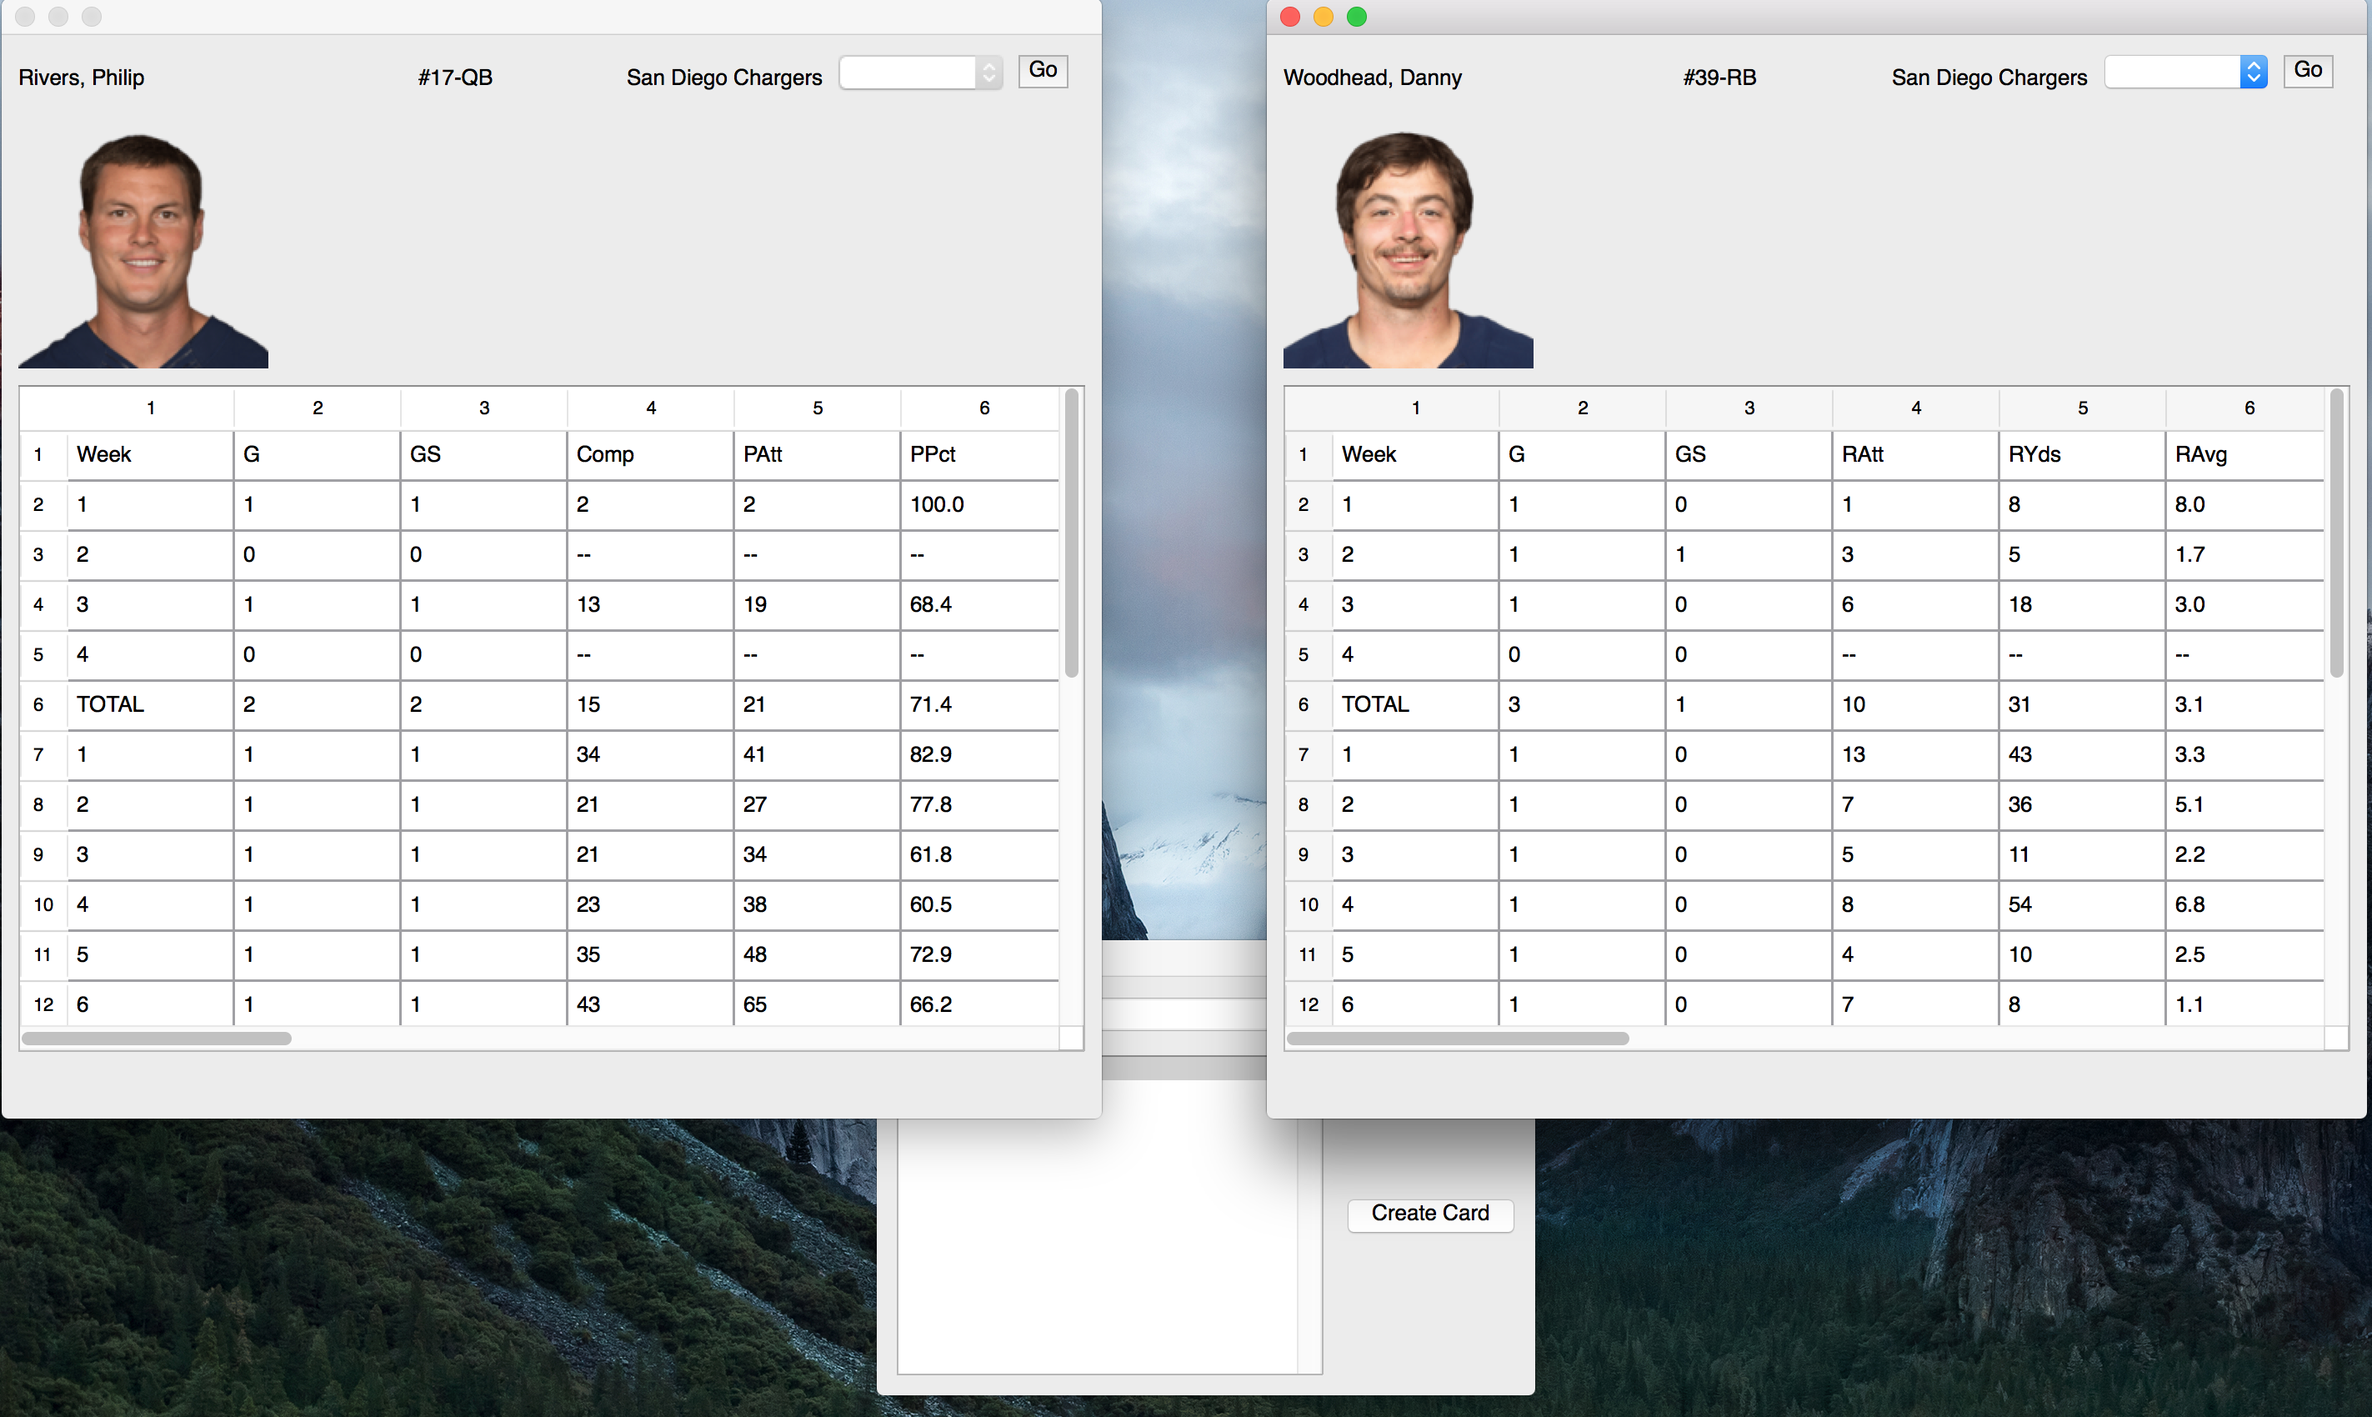
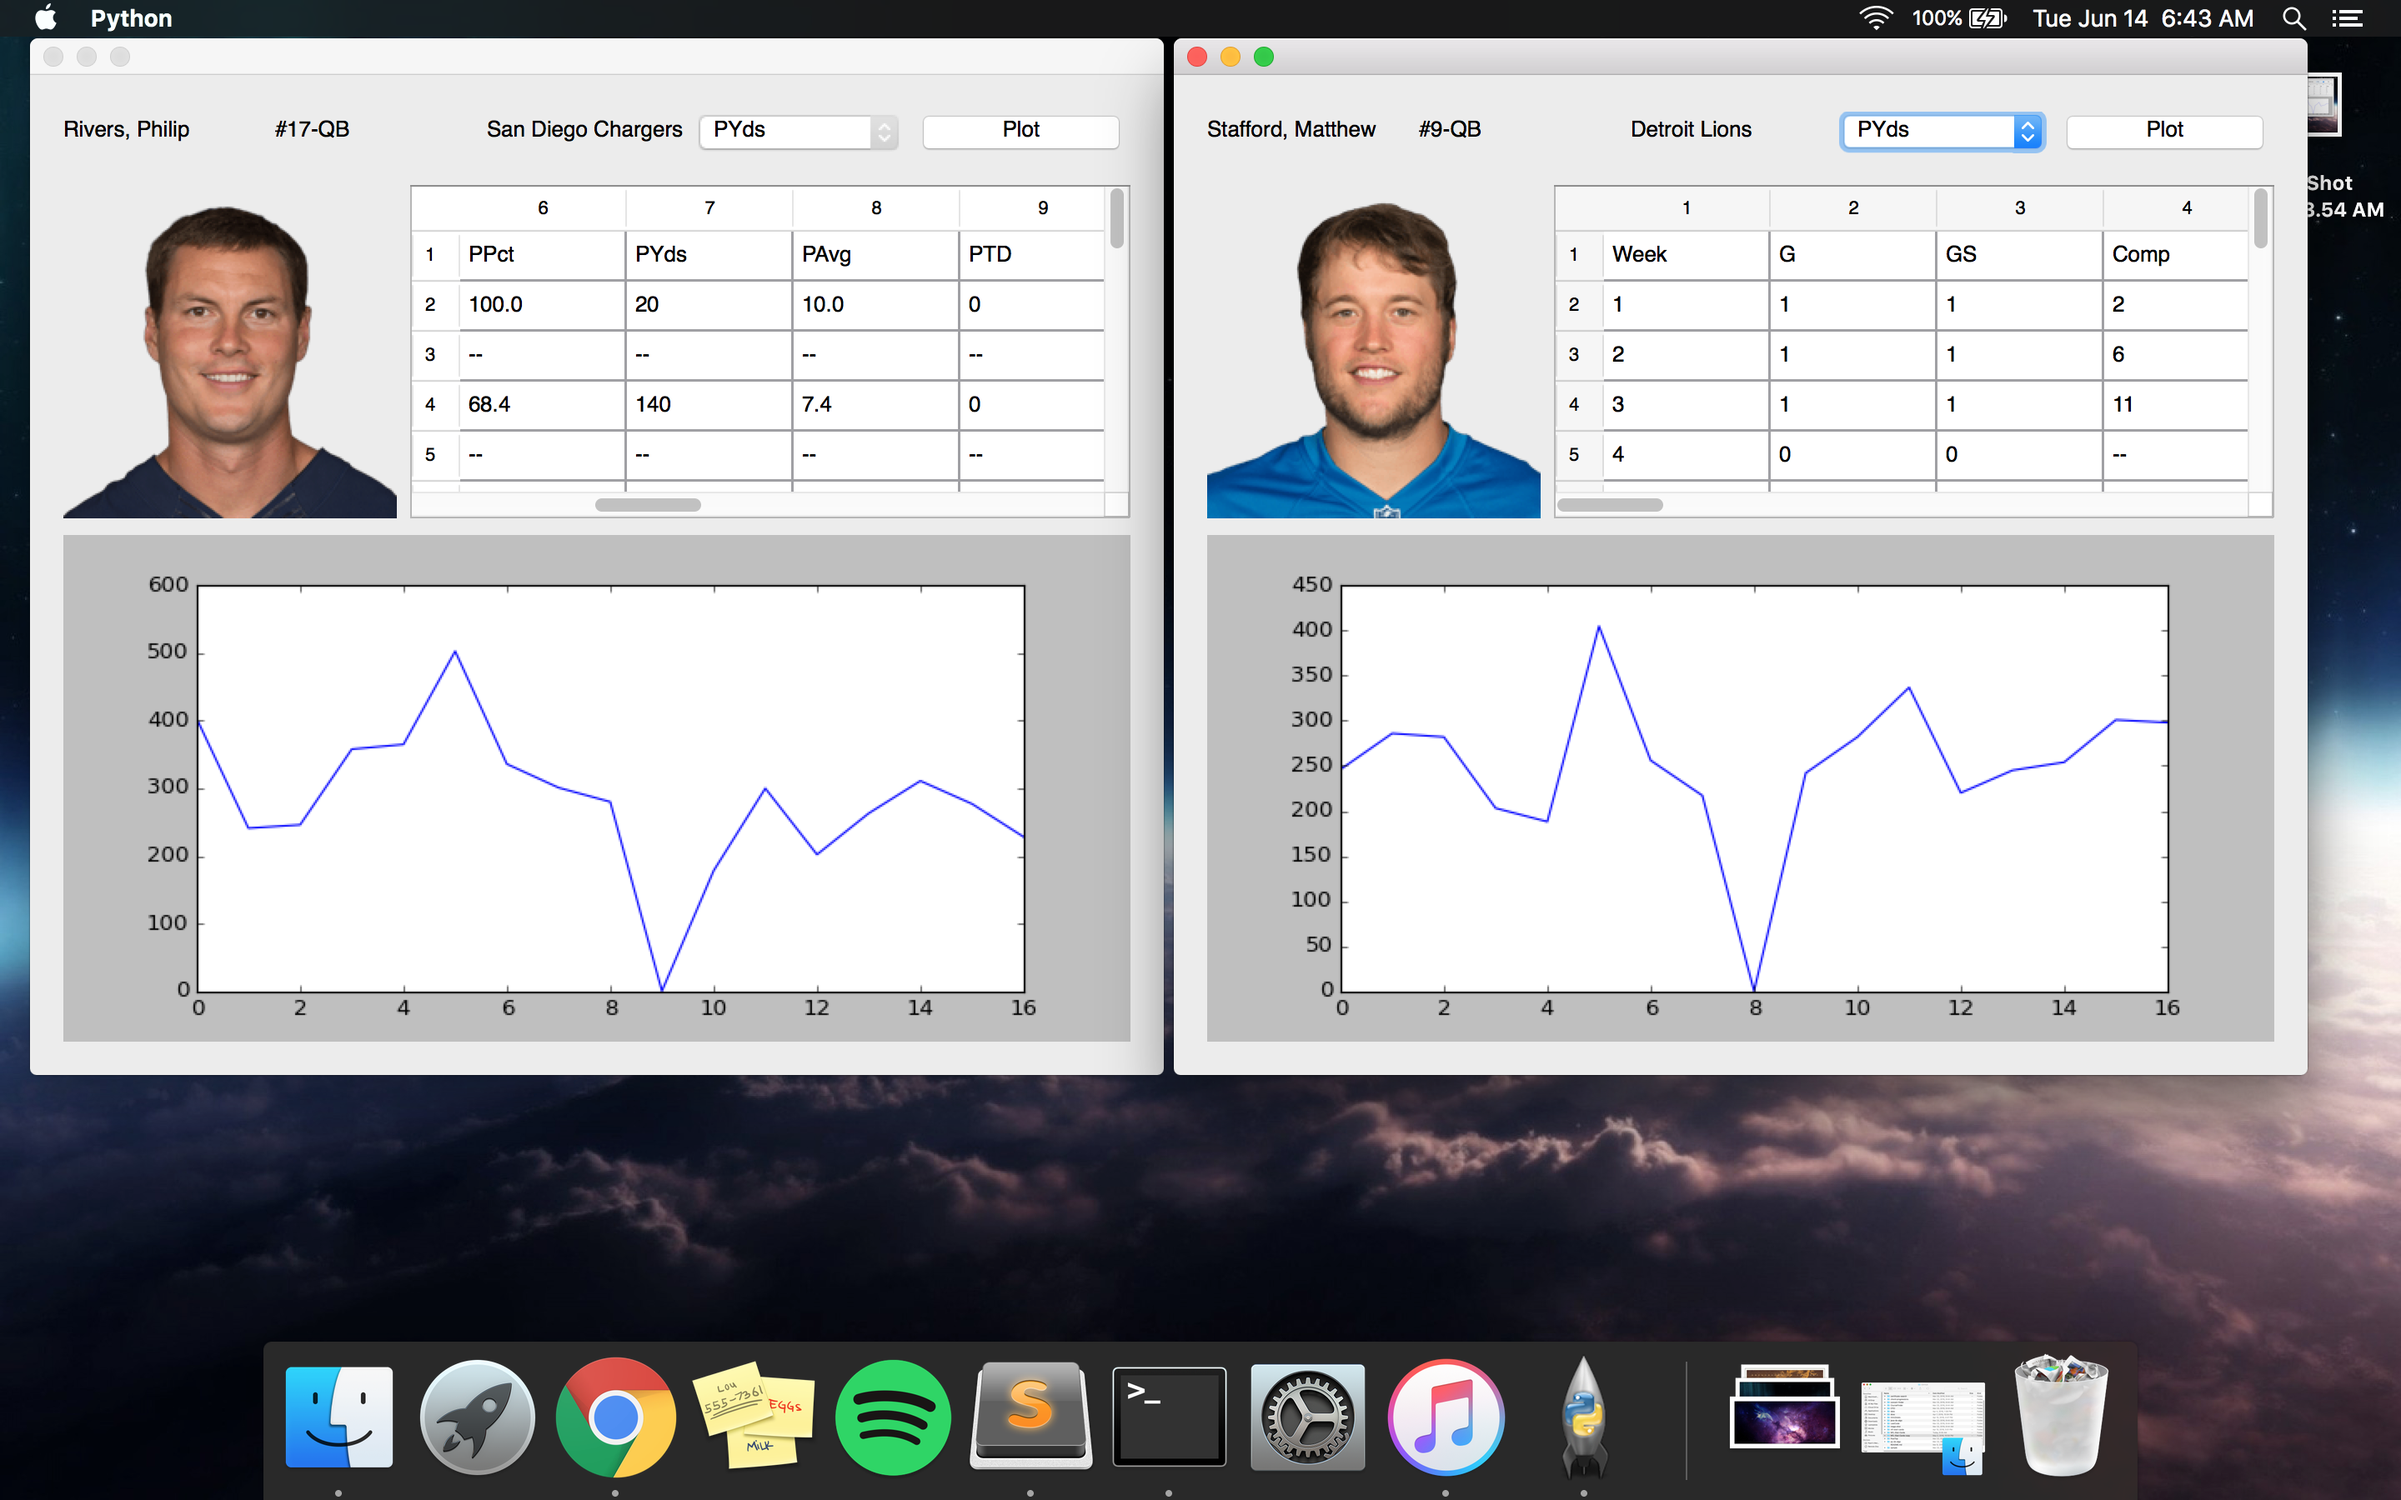
added img

diff --git a/nfl-stat-cards/stat_card.py b/nfl-stat-cards/stat_card.py
@@ -2,8 +2,6 @@ from PyQt4 import *
 from PyQt4.QtCore import * 
 from PyQt4.QtGui import * 
 from parse_data import *
-#from matplotlib.backends.backend_qt4agg import FigureCanvasQTAgg as FigureCanvas
-#from matplotlib.backends.backend_qt4agg import NavigationToolbar2QTAgg as NavigationToolbar
 from matplotlib.figure import Figure
 from matplotlib.backends.backend_qt4agg import (
     FigureCanvasQTAgg as FigureCanvas,
@@ -23,7 +21,6 @@ class StatCard(QWidget):
         self.card.setWindowTitle(current_player[0])
 
         self.stat_table = QTableWidget(self.card)
-        #self.stat_table.setGeometry(QRect(10, 250, 640, 400))
         self.stat_table.setVerticalScrollBarPolicy(Qt.ScrollBarAlwaysOn)
         self.stat_table.setRowCount(len(current_player[5]) + 1)
         self.stat_table.setColumnCount(len(current_player[6]))
@@ -36,30 +33,24 @@ class StatCard(QWidget):
         self.stat_table.setEditTriggers(QAbstractItemView.NoEditTriggers)
 
         self.name = QLabel(self.card)
-        #self.name.setGeometry(QRect(10, 20, 200, 13))
         self.name.setText(current_player[0])
 
         self.num = QLabel(self.card)
-        #self.num.setGeometry(QRect(250, 20, 56, 13))
         self.num.setText(current_player[1] + '-' + current_player[2])
        
         self.team = QLabel(self.card)
-        #self.team.setGeometry(QRect(375, 20, 300, 13))
         self.team.setText(current_player[3])
 
         self.photo = QLabel(self.card)
-        #self.photo.setGeometry(QRect(10, 50, 150, 150))
         self.photo.setScaledContents(True)                  
         self.photo.setPixmap(QPixmap(current_player[4]))
 
         self.categories = QComboBox(self.card)
-        #self.categories.setGeometry(QRect(500, 10, 104, 26))
         self.categories.addItem("")
         for i in range(3, len(current_player[6])):
             self.categories.addItem(current_player[6][i])
 
         self.chart_button = QPushButton(self.card)
-        #self.chart_button.setGeometry(610, 12, 30, 20)
         self.chart_button.setText("Plot")
         self.chart_button.clicked.connect(self.makeChart)
 
@@ -75,47 +66,14 @@ class StatCard(QWidget):
         grid1.addWidget(self.team, 0, 2)
         grid1.addWidget(self.categories, 0, 3)
         grid1.addWidget(self.chart_button, 0, 4)
-        #grid1.setGeometry(QRect(10, 10, 640, 50))
         main_layout.addLayout(grid1)
-
-        #self.photo.setGeometry(QRect(10, 60, 150, 150))
         grid2.addWidget(self.photo, 0, 0)
-        #self.canvas.setGeometry(QRect(160, 60, 640, 150))
         
-        grid2.addWidget(self.canvas, 1, 0, 1, 0)
-        #grid2.setGeometry(QRect(10, 60, 640, 150))
         grid2.addWidget(self.stat_table, 0, 1, 1, 1)
+        grid2.addWidget(self.canvas, 1, 0, 1, 0)
         main_layout.addLayout(grid2)
-        #main_layout.addWidget(self.stat_table)
         
         self.setLayout(main_layout)
-
-
-        #self.canvas.setGeometry(610, 12, 30, 20)
-
-
-
-
-        # self.toolbar = NavigationToolbar(self.canvas, self)
-        # self.canvas.setGeometry(QRect(300, 50, 150, 150))
-
-
-        # self.chart = plt.figure()
-        # self.chart_widget = FigureCanvas(self.chart)
-        # self.chart_widget.setGeometry(QRect(250, 50, 150, 150))
-        # data = [random.random() for i in range(25)]
-        # ax = self.chart.add_subplot(111)
-        # ax.hold(False)
-        # ax.plot(data, '*-')
-        # self.chart_widget.draw()
-
-        # self.chart = pd.DataFrame()
-        # self.chart.plot.line()
-        # self.chart_display = DataFrameWidget(self.chart)
-        # self.chart_display.setGeometry(300, 50, 150, 150)
-
-    def column(matrix, i):
-        return [row[i] for row in matrix]
 
     def makeChart(self, current_player):
         data = [row[self.categories.currentIndex() + 2] for row in self.current_player[5]]
